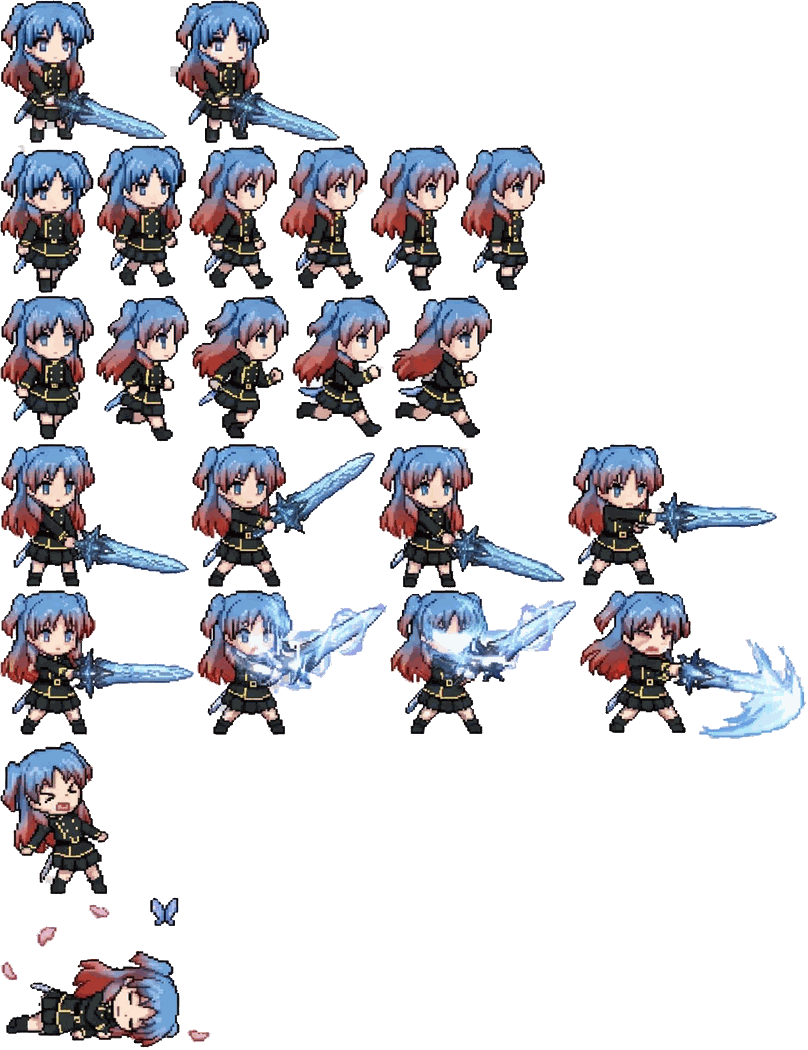
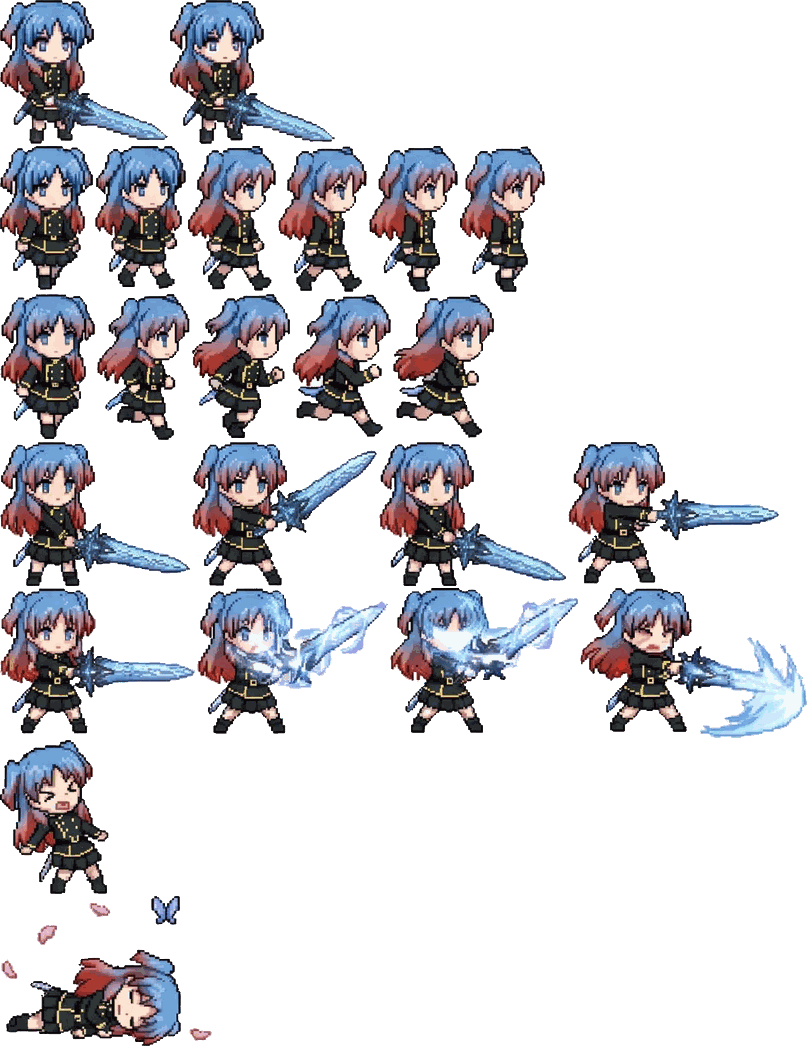
WordEnd : damier collé à Chtholly retiré, touche M en AZERTY
- decouper-planche.py : une zone claire et neutre qui touche le fond est
  du fond (cases de damier un peu hors seuils à cause du JPEG). Retire
  le carré gris collé aux cheveux (repos, 2e image) et la tache entre
  les jambes (repos, 1re image). Contrôle de toutes les images de
  Chtholly et du Timere : il ne reste que des liserés du dessin.
- jeu.js : M (musique) et P (pause) lus sur la lettre tapée (e.key) ;
  en AZERTY, le M est à la place du « ; » QWERTY (e.code Semicolon),
  la touche ne faisait donc rien.

Claude-Session: https://claude.ai/code/session_01KfW8DmgfJYRxPWVXTyXW9M

diff --git a/wp-content/plugins/yume-core/includes/wordend/assets/jeu.js b/wp-content/plugins/yume-core/includes/wordend/assets/jeu.js
@@ -604,14 +604,17 @@
 		e.stopPropagation();
 
 		var action = TOUCHES[ e.code ];
-		if ( e.code === 'KeyM' && config.musique ) {
+		// M et P se lisent sur la lettre tapée (e.key), pas sur la position de la touche : en
+		// AZERTY, le M est à la place du « ; » du QWERTY (e.code = Semicolon).
+		var lettre = String( e.key || '' ).toLowerCase();
+		if ( lettre === 'm' && config.musique ) {
 			e.preventDefault();
 			if ( ! e.repeat ) {
 				basculerMuet();
 			}
 			return;
 		}
-		if ( e.code === 'KeyP' ) {
+		if ( lettre === 'p' ) {
 			e.preventDefault();
 			if ( ! e.repeat ) {
 				basculerPause();

diff --git a/wp-content/themes/yume/style.css b/wp-content/themes/yume/style.css
@@ -2,7 +2,7 @@
 Theme Name:        Yume
 Theme URI:         https://github.com/GNAlexandre/Yume-WordPress
 Description:       Thème bloc de Yume Novel (fan-traductions françaises de light novels) : direction « Crépuscule sakura », thème Nuit par défaut, thèmes de lecture Papier et Sépia, lecteur en ligne, bibliothèque et planning fournis par l'extension Yume Core.
-Version:           2.1.4-dev.7
+Version:           2.1.4-dev.8
 Requires at least: 6.6
 Tested up to:      7.1
 Requires PHP:      8.1

diff --git a/tools/wordend/decouper-planche.py b/tools/wordend/decouper-planche.py
@@ -82,7 +82,18 @@ def detourer(a):
         t = tot[i - 1]
         if t > 40 and ng[i - 1] > 0.15 * t and nb[i - 1] > 0.15 * t:
             fond[i] = True
-    fg = nd.binary_opening(~fond[lab], iterations=1)
+    fond = fond[lab]
+    # Cases de damier collées au personnage (bruit JPEG : un peu hors des seuils ci-dessus) :
+    # zone claire et neutre qui touche le fond = fond. Les vrais blancs (reflets des yeux,
+    # éclats bleutés de l'épée) ne touchent pas le fond ou ne sont pas neutres.
+    clair = ~fond & (sat <= 18) & (mx >= 165)
+    lab, n = nd.label(clair)
+    bord = nd.binary_dilation(fond, iterations=1)
+    touche = nd.maximum(bord, lab, range(1, n + 1))
+    for i in range(1, n + 1):
+        if touche[i - 1]:
+            fond |= lab == i
+    fg = nd.binary_opening(~fond, iterations=1)
     lab, n = nd.label(fg)
     tailles = nd.sum(fg, lab, range(1, n + 1))
     return np.isin(lab, 1 + np.where(tailles >= 120)[0])

diff --git a/wp-content/plugins/yume-core/yume-core.php b/wp-content/plugins/yume-core/yume-core.php
@@ -3,7 +3,7 @@
  * Plugin Name:       Yume Core
  * Plugin URI:        https://github.com/GNAlexandre/Yume-WordPress
  * Description:       Bibliothèque Yume Novel : œuvres, tomes, chapitres, lecture en ligne, planning, espace équipe, publication DOCX, comptes lecteurs.
- * Version:           2.1.4-dev.7
+ * Version:           2.1.4-dev.8
  * Requires at least: 6.6
  * Requires PHP:      8.1
  * Author:            Yume Novel
@@ -16,7 +16,7 @@
 
 defined( 'ABSPATH' ) || exit;
 
-define( 'YUME_CORE_VERSION', '2.1.4-dev.7' );
+define( 'YUME_CORE_VERSION', '2.1.4-dev.8' );
 define( 'YUME_CORE_FILE', __FILE__ );
 define( 'YUME_CORE_DIR', plugin_dir_path( __FILE__ ) );
 define( 'YUME_CORE_URL', plugin_dir_url( __FILE__ ) );

diff --git a/wp-content/themes/yume/blocks/theme-toggle/editor.asset.php b/wp-content/themes/yume/blocks/theme-toggle/editor.asset.php
@@ -7,5 +7,5 @@
 
 return array(
 	'dependencies' => array( 'wp-blocks', 'wp-element', 'wp-block-editor' ),
-	'version'      => '2.1.4-dev.7',
+	'version'      => '2.1.4-dev.8',
 );

diff --git a/docs/wordend.md b/docs/wordend.md
@@ -104,7 +104,8 @@ Les deux planches sont produites par `tools/wordend/decouper-planche.py` (voir
 **Chtholly** (`chtholly.*`) : source `tools/wordend/source/chtholly-planche-gemini.jpg`, planche
 générée par Gemini (fond « transparent » dessiné en damier, titres par ligne). Repos 2 images
 (les deux vues de dos sont écartées), marche 6, course 5, attaque 4, charge 4, dégâts 1, mort 1 ;
-Chtholly debout = 144 px dans la planche. L'ancre de chaque image est le milieu du buste au niveau
+Chtholly debout = 144 px dans la planche. Les cases de damier restées collées au personnage (claires, neutres, touchant
+le fond) sont retirées aussi. L'ancre de chaque image est le milieu du buste au niveau
 des bottes, pour que l'épée ne décale pas le personnage.
 
 **Timere** (`timere.*`) : deux planches en pixel art générées par Gemini, dans

diff --git a/CHANGELOG.md b/CHANGELOG.md
@@ -2,6 +2,10 @@
 
 Une entrée par version ; une version par commit (tools/build/version.php, docs/guide-developpeur.md).
 
+## 2.1.4-dev.8 — 2026-09-30
+
+- WordEnd : cases de damier collées à Chtholly retirées (pose de repos), touche M (musique) reconnue en AZERTY.
+
 ## 2.1.4-dev.7 — 2026-09-30
 
 - WordEnd : titre « Chtholly – Bats-toi contre ton destin ».
